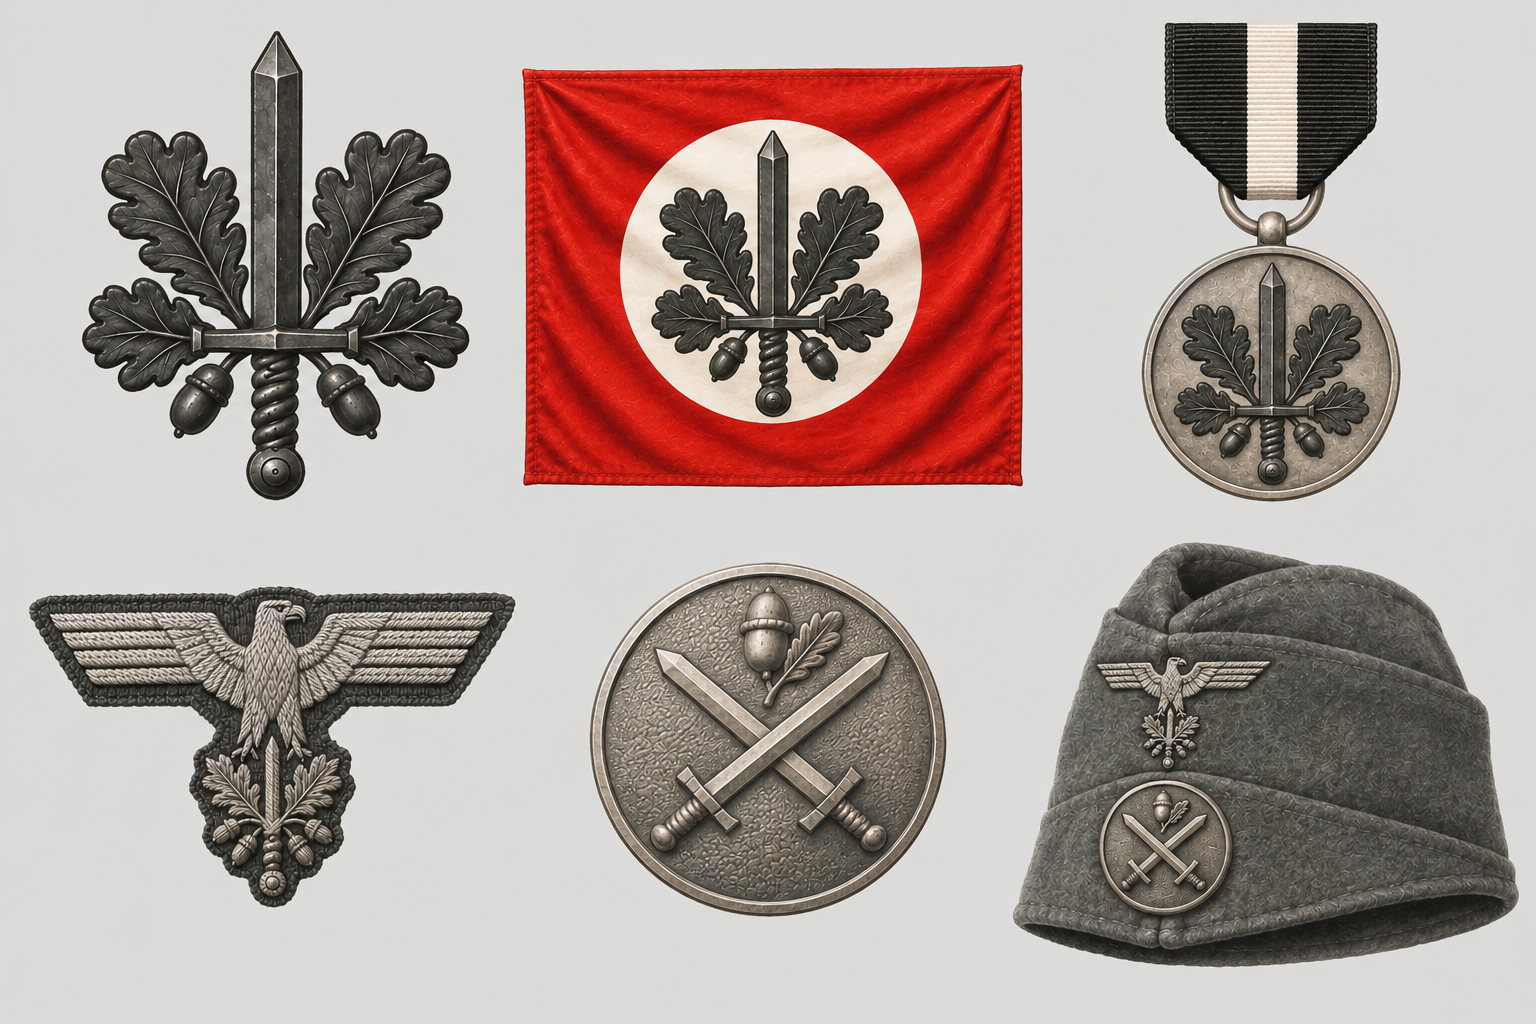
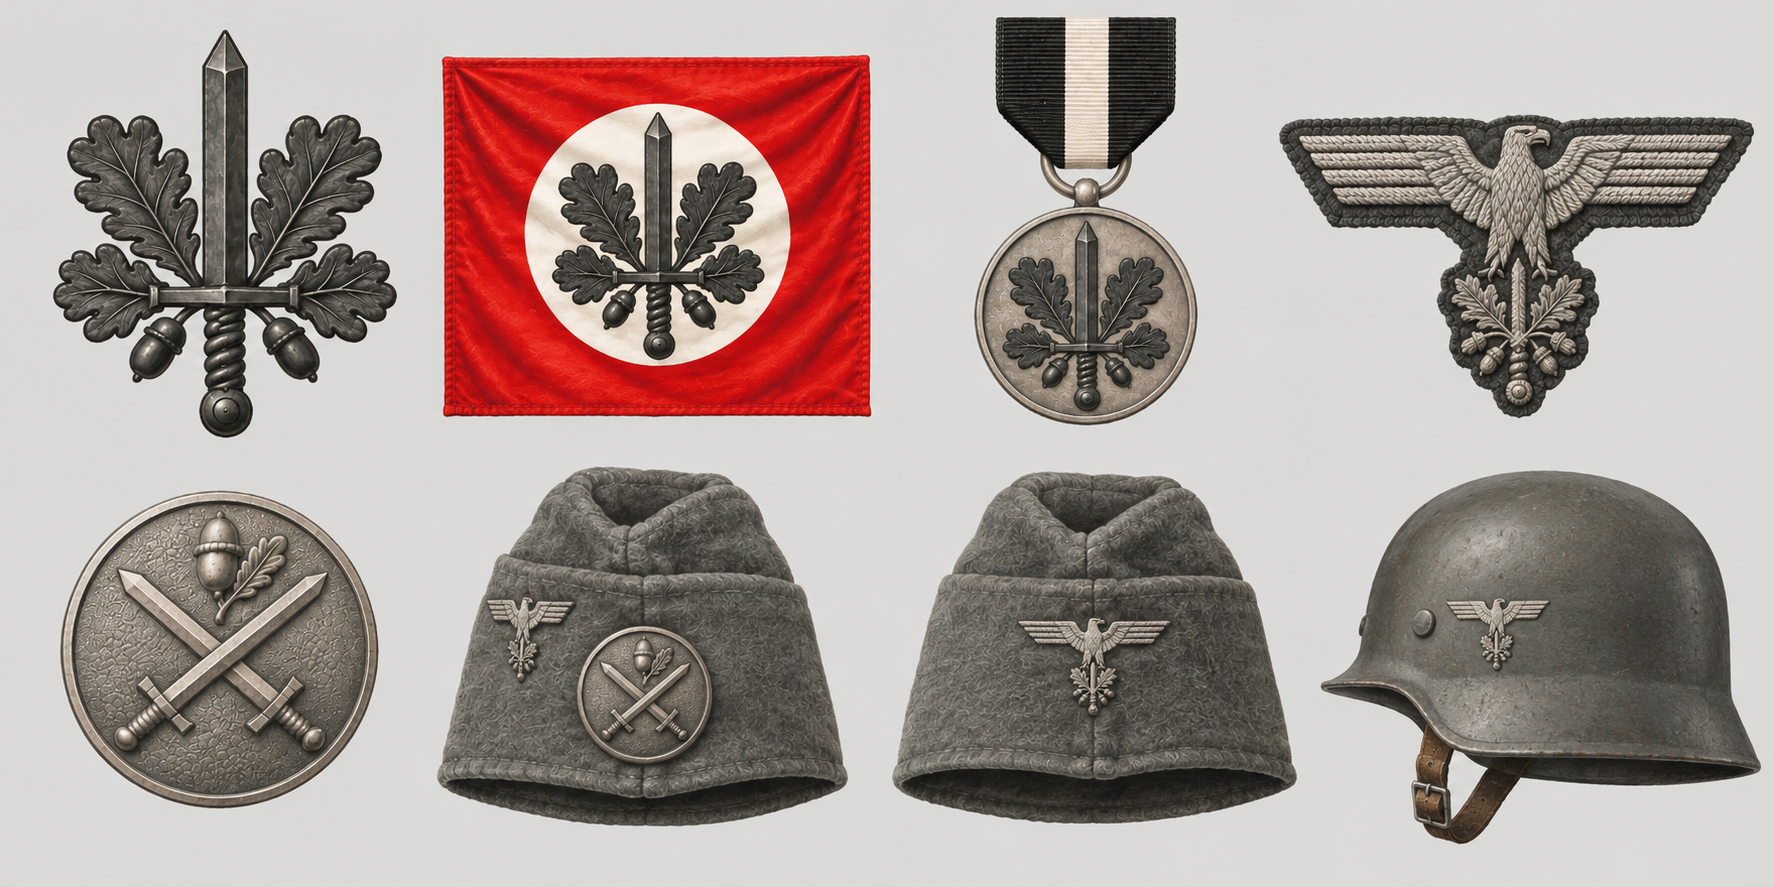
Emblem sheet with Waffen-SS cap, Army cap and helmet for reference
Claude-Session: https://claude.ai/code/session_01FPxW8otRVdngYhnkrH8mAQ

diff --git a/CLAUDE.md b/CLAUDE.md
@@ -32,6 +32,9 @@
   weapons across the chest; the combination with a skull badge gets prompts refused. Instead of the
   skull, use the cap badge from the sheet: "the round silver cap badge (two crossed swords with an acorn)
   from the attached emblem-sheet.png". Last resort: "a small round silver button on the front".
+  The sheet has eight pictures; refer to its headgear by name: Waffen-SS side cap "exactly like CAP ONE
+  in the attached emblem-sheet.png" (cap badge in the centre, eagle to its left), Army side cap "exactly
+  like CAP TWO" (only the eagle, centred), steel helmet "exactly like the HELMET" (eagle on the left side).
 - Scenes: landscape 16:9, at least 1600 × 900, horizon at 55–60 % of the height, important things
   between 30 % and 80 % of the height, hand-painted gouache style (`docs/style-reference.png`).
   Portraits: square, 1024 × 1024, plain dark olive background (#3b3d34).
